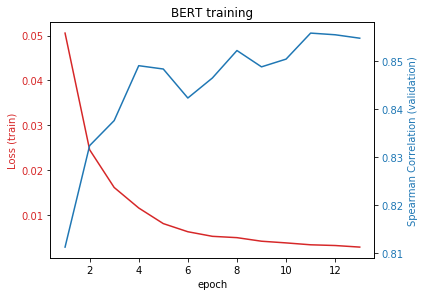
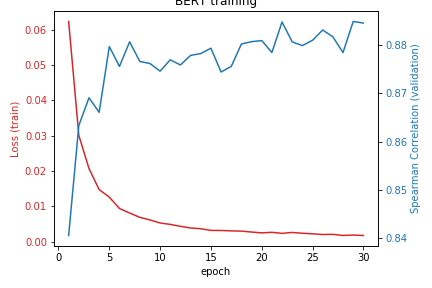
[training] Ajout des figures de training

diff --git a/latex/naaclhlt2019.tex b/latex/naaclhlt2019.tex
@@ -246,18 +246,18 @@ Nous avons utilisé la corrélation de Spearman sur les données de validations 
  Modèle & Spearman & Spearman & Temps \\[0.5ex]
  & x100 (val) & x100 (test) & (h) \\
  \hline\hline
- BERT     &  & 87.7 &  \\
+ BERT     & 88.2 & 87.7 & 1.5 \\
  \hline
- RoBERTa  &  & 89.1 &  \\
+ RoBERTa  & 90.2 & 89.1 & 1.5 \\
  \hline
- XLNet    &  & 88.4 & 3 \\
+ XLNet    & 89.1 & 88.4 & 3 \\
  \hline
- Moyenne  &  & \textbf{90.6} &  \\
+ Moyenne  & 88.0 & \textbf{90.6} & 6 \\
  \hline
- Stacking &  & 90.3 &  \\
+ Stacking & 88.1 & 90.3 & 6 \\
  (90-10)  & & & \\
  \hline
- Stacking & 87.2 & 90.0 &  \\
+ Stacking & 87.2 & 90.0 & 4.5 \\
  (70-30)  &  & & \\
  \hline
  \hline
@@ -270,11 +270,11 @@ Nous avons utilisé la corrélation de Spearman sur les données de validations 
 
 Notre première experience a donc consisté à fine-tuner BERT. Pour ce faire, nous avons utilisé la librairie transformers(\cite{huggingface}). Cette librairie nous permet de récupérer un modèle state-of-the-art avec ses poids pré-entraînés sur des corpus énormes, et de le fine-tuner avec des nouvelles données, sur une nouvelle tâche.
 
-Nous avons donc fine-tuné BERT, en l'entrainant sur 13 époques, avec des batches de taille 16, à prédire le score de similarité entre 2 phrases. Comme on peut le voire figure \ref{fig:BERT:finetunning}, il suffit d'une (TODO) d'époques pour fine-tuner correctement le modèle. Cela nous prends, sur 1GPU, environ 30 minutes (table \ref{table:models:results}).
+Nous avons donc fine-tuné BERT, en l'entrainant sur 22 époques, avec des batches de taille 16, à prédire le score de similarité entre 2 phrases. Comme on peut le voire figure \ref{fig:BERT:finetunning}, il suffit d'une vingtaine) d'époques pour fine-tuner correctement le modèle. Cela nous prends, sur 1GPU, environ 30 minutes (table \ref{table:models:results}).
 
 \begin{figure}
   \includegraphics[width=\linewidth]{resources/BERT-training.png}
-  \caption{BERT fine-tuning over 13 epochs}
+  \caption{BERT fine-tuning over 30 epochs}
   \label{fig:BERT:finetunning}
 \end{figure}
 
@@ -285,11 +285,11 @@ On obtient, avec BERT, un score très élevé, avec une corrélation sur les don
 
 Nous avons ensuite cherché à fine-tuner RoBERTa, version améliorée de BERT, en utilisant encore une fois la librairie transformers(\cite{huggingface}).
 
-Nous avons donc fine-tuné RoBERTa, en l'entrainant cette fois sur 10 époques, avec des batches de taille 8. Comme on peut le voire figure \ref{fig:BERT:finetunning}, il suffit d'une (TODO) d'époques pour fine-tuner correctement le modèle. Cela nous prends, sur 1GPU, environ 30 minutes (table \ref{table:models:results}).
+Nous avons donc fine-tuné RoBERTa, en l'entrainant cette fois sur 13 époques, avec des batches de taille 8. Comme on peut le voire figure \ref{fig:BERT:finetunning}, il suffit d'une dizaine d'époques pour fine-tuner correctement le modèle. Cela nous prends, sur 1GPU, environ 30 minutes (table \ref{table:models:results}).
 
 \begin{figure}
   \includegraphics[width=\linewidth]{resources/RoBERTa-training.png}
-  \caption{RoBERTa fine-tuning over 10 epochs}
+  \caption{RoBERTa fine-tuning over 30 epochs}
   \label{fig:RoBERTa:finetunning}
 \end{figure}
 
@@ -300,11 +300,11 @@ On obtient, avec RoBERTa, un score légèrement meilleur que pour BERT, avec une
 
 Nous avons ensuite cherché à fine-tuner XLNet en utilisant à nouveau la librairie transformers(\cite{huggingface}).
 
-Nous avons donc fine-tuné XLNet, en l'entrainant sur X époques. Comme on peut le voire figure \ref{fig:XLNet:finetunning}, il suffit d'une (TODO) d'époques pour fine-tuner correctement le modèle. Cela nous prends, sur 1GPU, plus de 2h (table \ref{table:models:results}), XLNet étant beaucoup plus gros que BERT et RoBERTa.
+Nous avons donc fine-tuné XLNet, en l'entrainant sur 24 époques. Comme on peut le voire figure \ref{fig:XLNet:finetunning}, il suffit d'une vingtaine d'époques pour fine-tuner correctement le modèle. Cela nous prends, sur 1GPU, plus de 2h (table \ref{table:models:results}), XLNet étant beaucoup plus gros que BERT et RoBERTa.
 
 \begin{figure}
   \includegraphics[width=\linewidth]{resources/XLNet-training.png}
-  \caption{XLNet fine-tuning over 10 epochs}
+  \caption{XLNet fine-tuning over 30 epochs}
   \label{fig:XLNet:finetunning}
 \end{figure}
 
@@ -318,7 +318,7 @@ Maintenant que nous avons 3 modèles très performants, issus du state-of-the-ar
 %
 \subsubsection{Stacking}
 
-Nous avons ensuite essayé d'entrainer un modèle de réseaux de neuronnes fast-forward, avec une couche cachée de 16 neurones, à prédire la bonne valeur d'après les sorties des 3 sous modèles.
+Nous avons ensuite essayé d'entrainer un modèle de réseaux de neurones fast-forward, avec une couche cachée de 16 neurones, à prédire la bonne valeur d'après les sorties des 3 sous modèles.
 
 Pour ce faire, nous avons coupé le dataset d'entrainement en 3: 90\% du set étant utilisé pour fine-tuner séparément les 3 models SOTA, 90\% des données restantes (qu'aucun des 3 sous modèles n'a donc jamais vu) pour entraîner le modèle de stacking, le reste étant utilisé comme set de validation.
 
@@ -397,6 +397,10 @@ Une piste qui pourrait être envisagée, mais que nous n'avons pas pu essayer, e
 \caption{Architecture du modèle de stacking sur les dernières couches cachées} \label{fig:stacking:archi_future}
 \end{center}
 \end{figure}
+
+\subsubsection{Conclusion}
+
+Nous avons pu nous rendre compte, grâce à ce travail, de l'efficacité des modèles SOTA pour la tâche STS. Il nous est également apparu que les différents modèles n'apprennent pas exactement les mêmes informations, et qu'ils n'échouent pas aux mêmes endroits. Faire un ensemble à partir de ces modèles permet donc d'obtenir de meilleurs résultats, en exploitant les forces des différents modèles. Néanmoins, nous n'avons pas réussi à faire mieux qu'une simple moyenne des résultats. Nous pensons que le problème vient de la taille des données restantes pour entraîner le modèle de stacking, et qu'il serait possible d'obtenir de meilleurs résultats avec plus de données.
 
 \section*{Acknowledgments}
  
